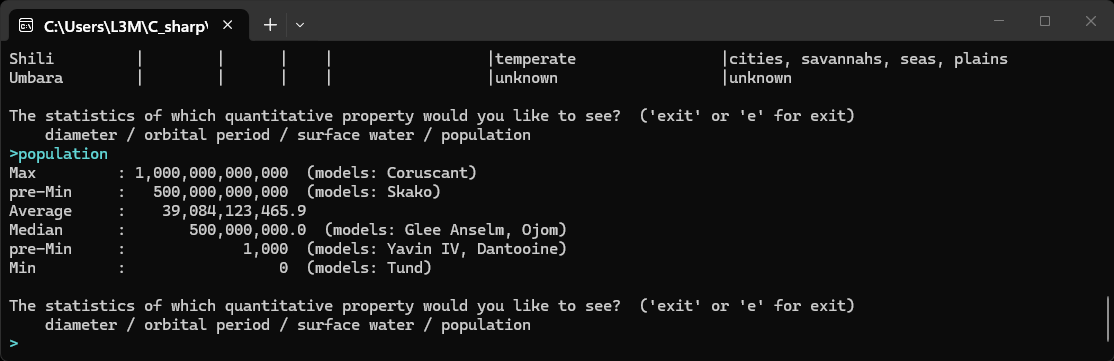
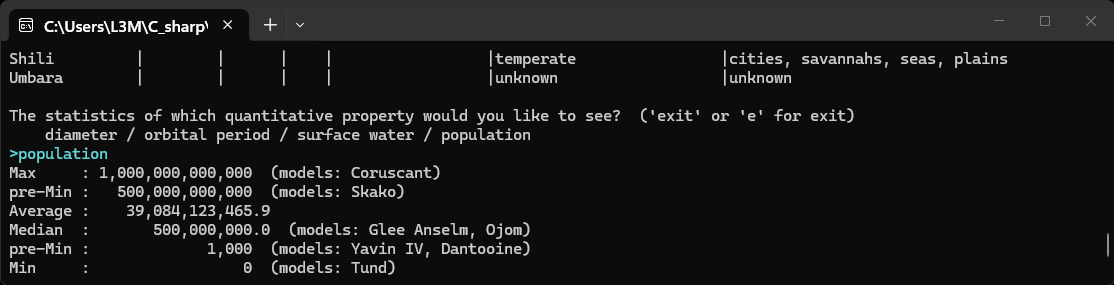
small improve of ReadMe and formatting

diff --git a/StarWarsStats/UserInteraction/TablePrinter.cs b/StarWarsStats/UserInteraction/TablePrinter.cs
@@ -56,12 +56,12 @@ public static class TablePrinter
                             (property.Name == "BirthYear")
                                 ? property.GetValue(item) switch {
                                     null => new string(' ', width),
-                                    < 0 => String.Format($"{{0, {width - 3}}}BBY", -(int)property.GetValue(item)!),
-                                    > 0 => String.Format($"{{0, {width - 3}}}ABY", property.GetValue(item)),
-                                    _ => String.Format($"{{0, {width - 3}}}   ", property.GetValue(item))
+                                    < 0  => String.Format($"{{0, {width - 3}}}BBY", -(int)property.GetValue(item)!),
+                                    > 0  => String.Format($"{{0, {width - 3}}}ABY", property.GetValue(item)),
+                                    _    => String.Format($"{{0, {width - 3}}}   ", property.GetValue(item))
                                   }
                                 : String.Format($"{{0, {width}:N0}}", property.GetValue(item)),
-                       Type t when t == typeof(long?) => String.Format($"{{0, {width}:N0}}", property.GetValue(item)),
+                       Type t when t == typeof(long?)  => String.Format($"{{0, {width}:N0}}", property.GetValue(item)),
                        Type t when t == typeof(string) => String.Format($"{{0, -{width}}}", property.GetValue(item))[..width],
                        _ => throw new Exception($"TablePrinter class: Unsupported property type: {property.PropertyType}")
                    })

diff --git a/StarWarsStats/App/StatisticsAnalyzer.cs b/StarWarsStats/App/StatisticsAnalyzer.cs
@@ -93,7 +93,7 @@ public class StatisticsAnalyzer : IStatisticsAnalyzer
                 Func<T, long?> propertySelector = model => {
                     var value = propertyInfo.GetValue(model, null);
                     return value switch {
-                        int intValue => (long?)intValue,
+                        int intValue   => (long?)intValue,
                         long longValue => (long?)longValue,
                         _ => null
                     };
@@ -161,7 +161,7 @@ public class StatisticsAnalyzer : IStatisticsAnalyzer
                                                       .GetProperty("Name")?
                                                       .GetValue(obj));
         _modelsStatsUserInteractor.ShowMessage(
-            $"{descriptor,-12}: {value,17:N0}" +
+            $"{descriptor,-8}: {value,17:N0}" +
             $"  (models: {string.Join(", ", namesOfObjects)})");
     }
 
@@ -178,7 +178,7 @@ public class StatisticsAnalyzer : IStatisticsAnalyzer
                                                       .GetProperty("Name")?
                                                       .GetValue(obj));
         _modelsStatsUserInteractor.ShowMessage(
-            $"{descriptor,-12}: {value,19:N1}" +
+            $"{descriptor,-8}: {value,19:N1}" +
             ((namesOfObjects.Any())
                 ? $"  (models: {string.Join(", ", namesOfObjects)})"
                 : ""));

diff --git a/StarWarsStats/UserInteraction/TableColumns.cs b/StarWarsStats/UserInteraction/TableColumns.cs
@@ -36,13 +36,13 @@ public static class TableColumns
         new TableColumn("population",     "Population", 17, "Population"),
         new TableColumn("climate",        "Climate",    25, "Climate"),
         new TableColumn("terrain",        "Terrain",    40, "Terrain")
-        //new TableColumn("rotation period", "RotPrd", 6, "RotationPeriod"),
-        //new TableColumn("gravity", "Gravity", 13, "Gravity")
+        //new TableColumn("rotation period", "RotPrd",   6, "RotationPeriod"),
+        //new TableColumn("gravity",         "Gravity", 13, "Gravity")
     ];
 
     private static readonly Dictionary<string, TableColumn[]> _tables = new() {
-        ["people"]  = columnsOfTablePeople,
-        ["species"] = columnsOfTableSpecies,
+        ["people"]   = columnsOfTablePeople,
+        ["species"]  = columnsOfTableSpecies,
         ["planets"]  = columnsOfTablePlanets
     };
 

diff --git a/StarWarsStats/Program.cs b/StarWarsStats/Program.cs
@@ -5,7 +5,7 @@ using StarWarsStats.UserInteraction;
 
 try {
     string requestHost = "https://swapi.dev/";
-    string requestPathPeople = "api/people";
+    string requestPathPeople  = "api/people";
     string requestPathSpecies = "api/species";
     string requestPathPlanets = "api/planets";
     var consoleUserInteractor = new ConsoleUserInteractor();

diff --git a/StarWarsStats/ReadMe.md b/StarWarsStats/ReadMe.md
@@ -15,19 +15,24 @@ After the table, the user can get additional characteristics of quantitative ind
 
 <br>
 
-$$\color{orange}{\text{Warnings and disclaimers}}$$:
+<h3>$$\color{orange}{\text{Warnings and disclaimers}}$$</h3>
+
 * The program is not ideal. For example, in some cases I haven't find a good solution for universal code that can handle multiple types of data, so I've created separate branches for different types. Perhaps I'll improve the program in the future.
-* The data is provided by the learning server and not all information exactly corresponds to what is generally accepted in the "Legends" and "Canon". _(For example, for Palpatine's year of birth the server gives out 82BBY but online sources say 84BBY.) Some numbers in the "Legends" and "Canon" are different (for example, Qui-Gon Jinn was born in 92BBY according to the "Legends", and in 80BBY according to the "Canon").
+* The data is provided by the learning server and not all information exactly corresponds to what is generally accepted in the "Legends" and "Canon". (For example, for Palpatine's year of birth the server gives out 82BBY but online sources say 84BBY.) Some numbers in the "Legends" and "Canon" are different (for example, Qui-Gon Jinn was born in 92BBY according to the "Legends", and in 80BBY according to the "Canon").
 * There are several cases, there the server outputs frantional values (for example, Anakin Skywalker was born at 41.9BBY). Since I wanted to focus on the global structure of the application, in such cases I used rounding.
 
 <br>
 
-Screenshots:
+<h3>$$\color{blue}{\text{Screenshots}}$$</h3>
+
+Exploring charactes:
 ![example of work with request for data about people, start](screenshots/example_of_work_with_request_people-start.png)
 ![example of work with request for data about people, end](screenshots/example_of_work_with_request_people-end.png)
 
+Exploring species:
 ![example of work with request for data about species, start](screenshots/example_of_work_with_request_species-start.png)
 ![example of work with request for data about species, end](screenshots/example_of_work_with_request_species-end.png)
 
-![example of work with request for data about planets, start](screenshots/example_of_work_with_request_species-start.png)
-![example of work with request for data about planets, end](screenshots/example_of_work_with_request_species-end.png)
+Exploring planets:
+![example of work with request for data about planets, start](screenshots/example_of_work_with_request_planets-start.png)
+![example of work with request for data about planets, end](screenshots/example_of_work_with_request_planets-end.png)
